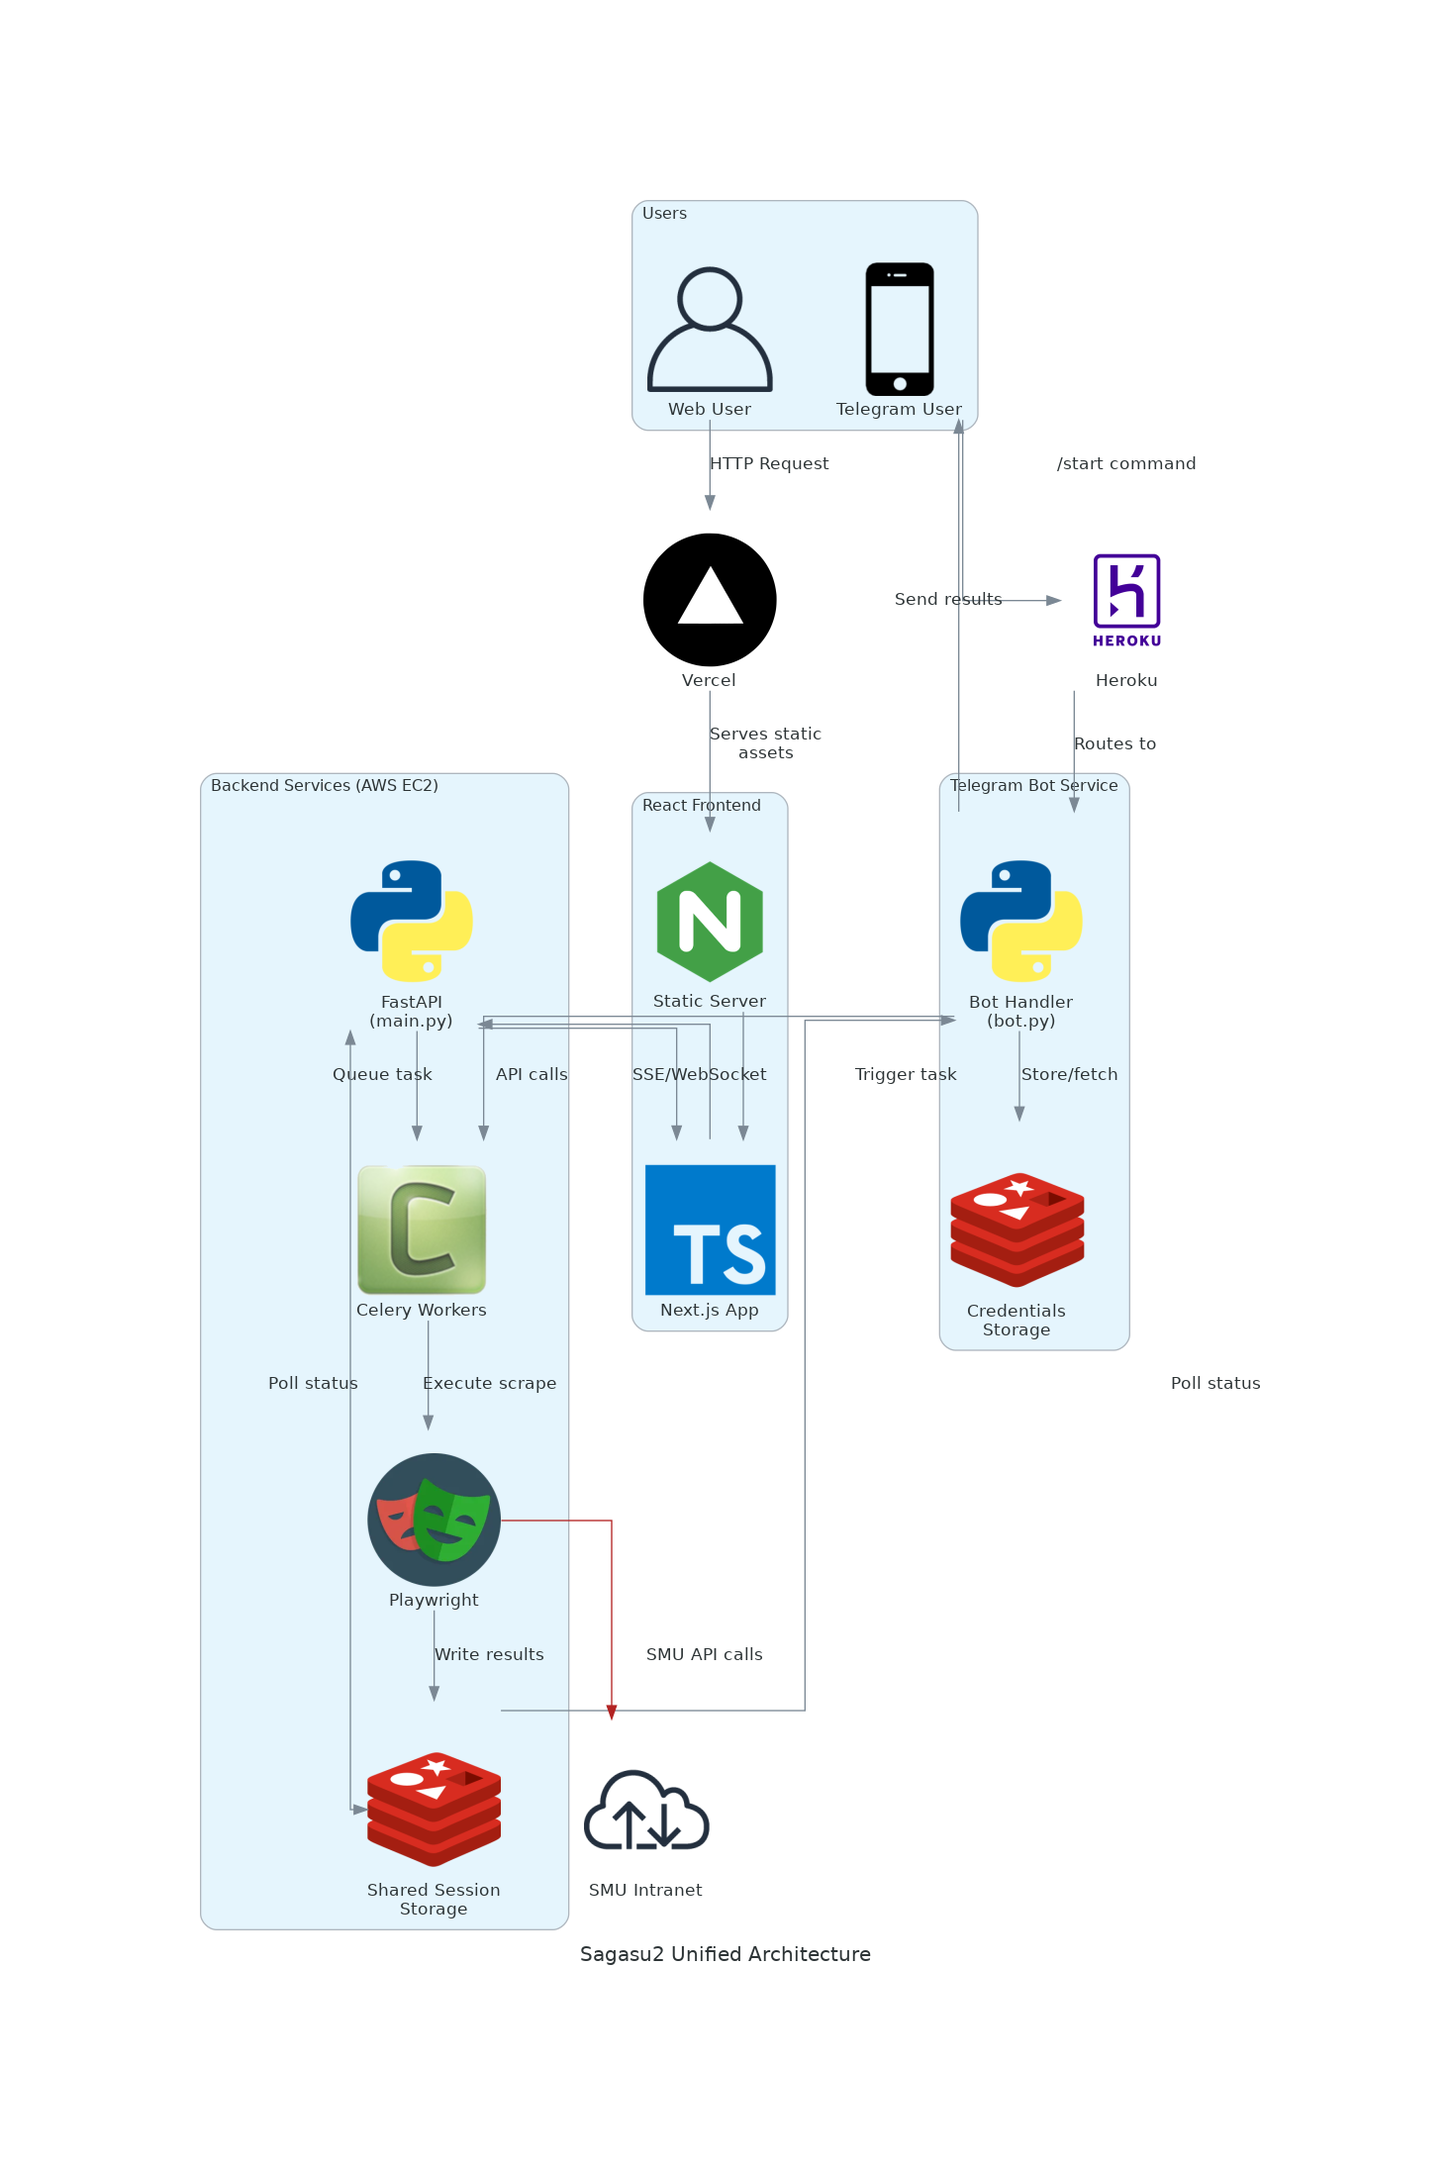
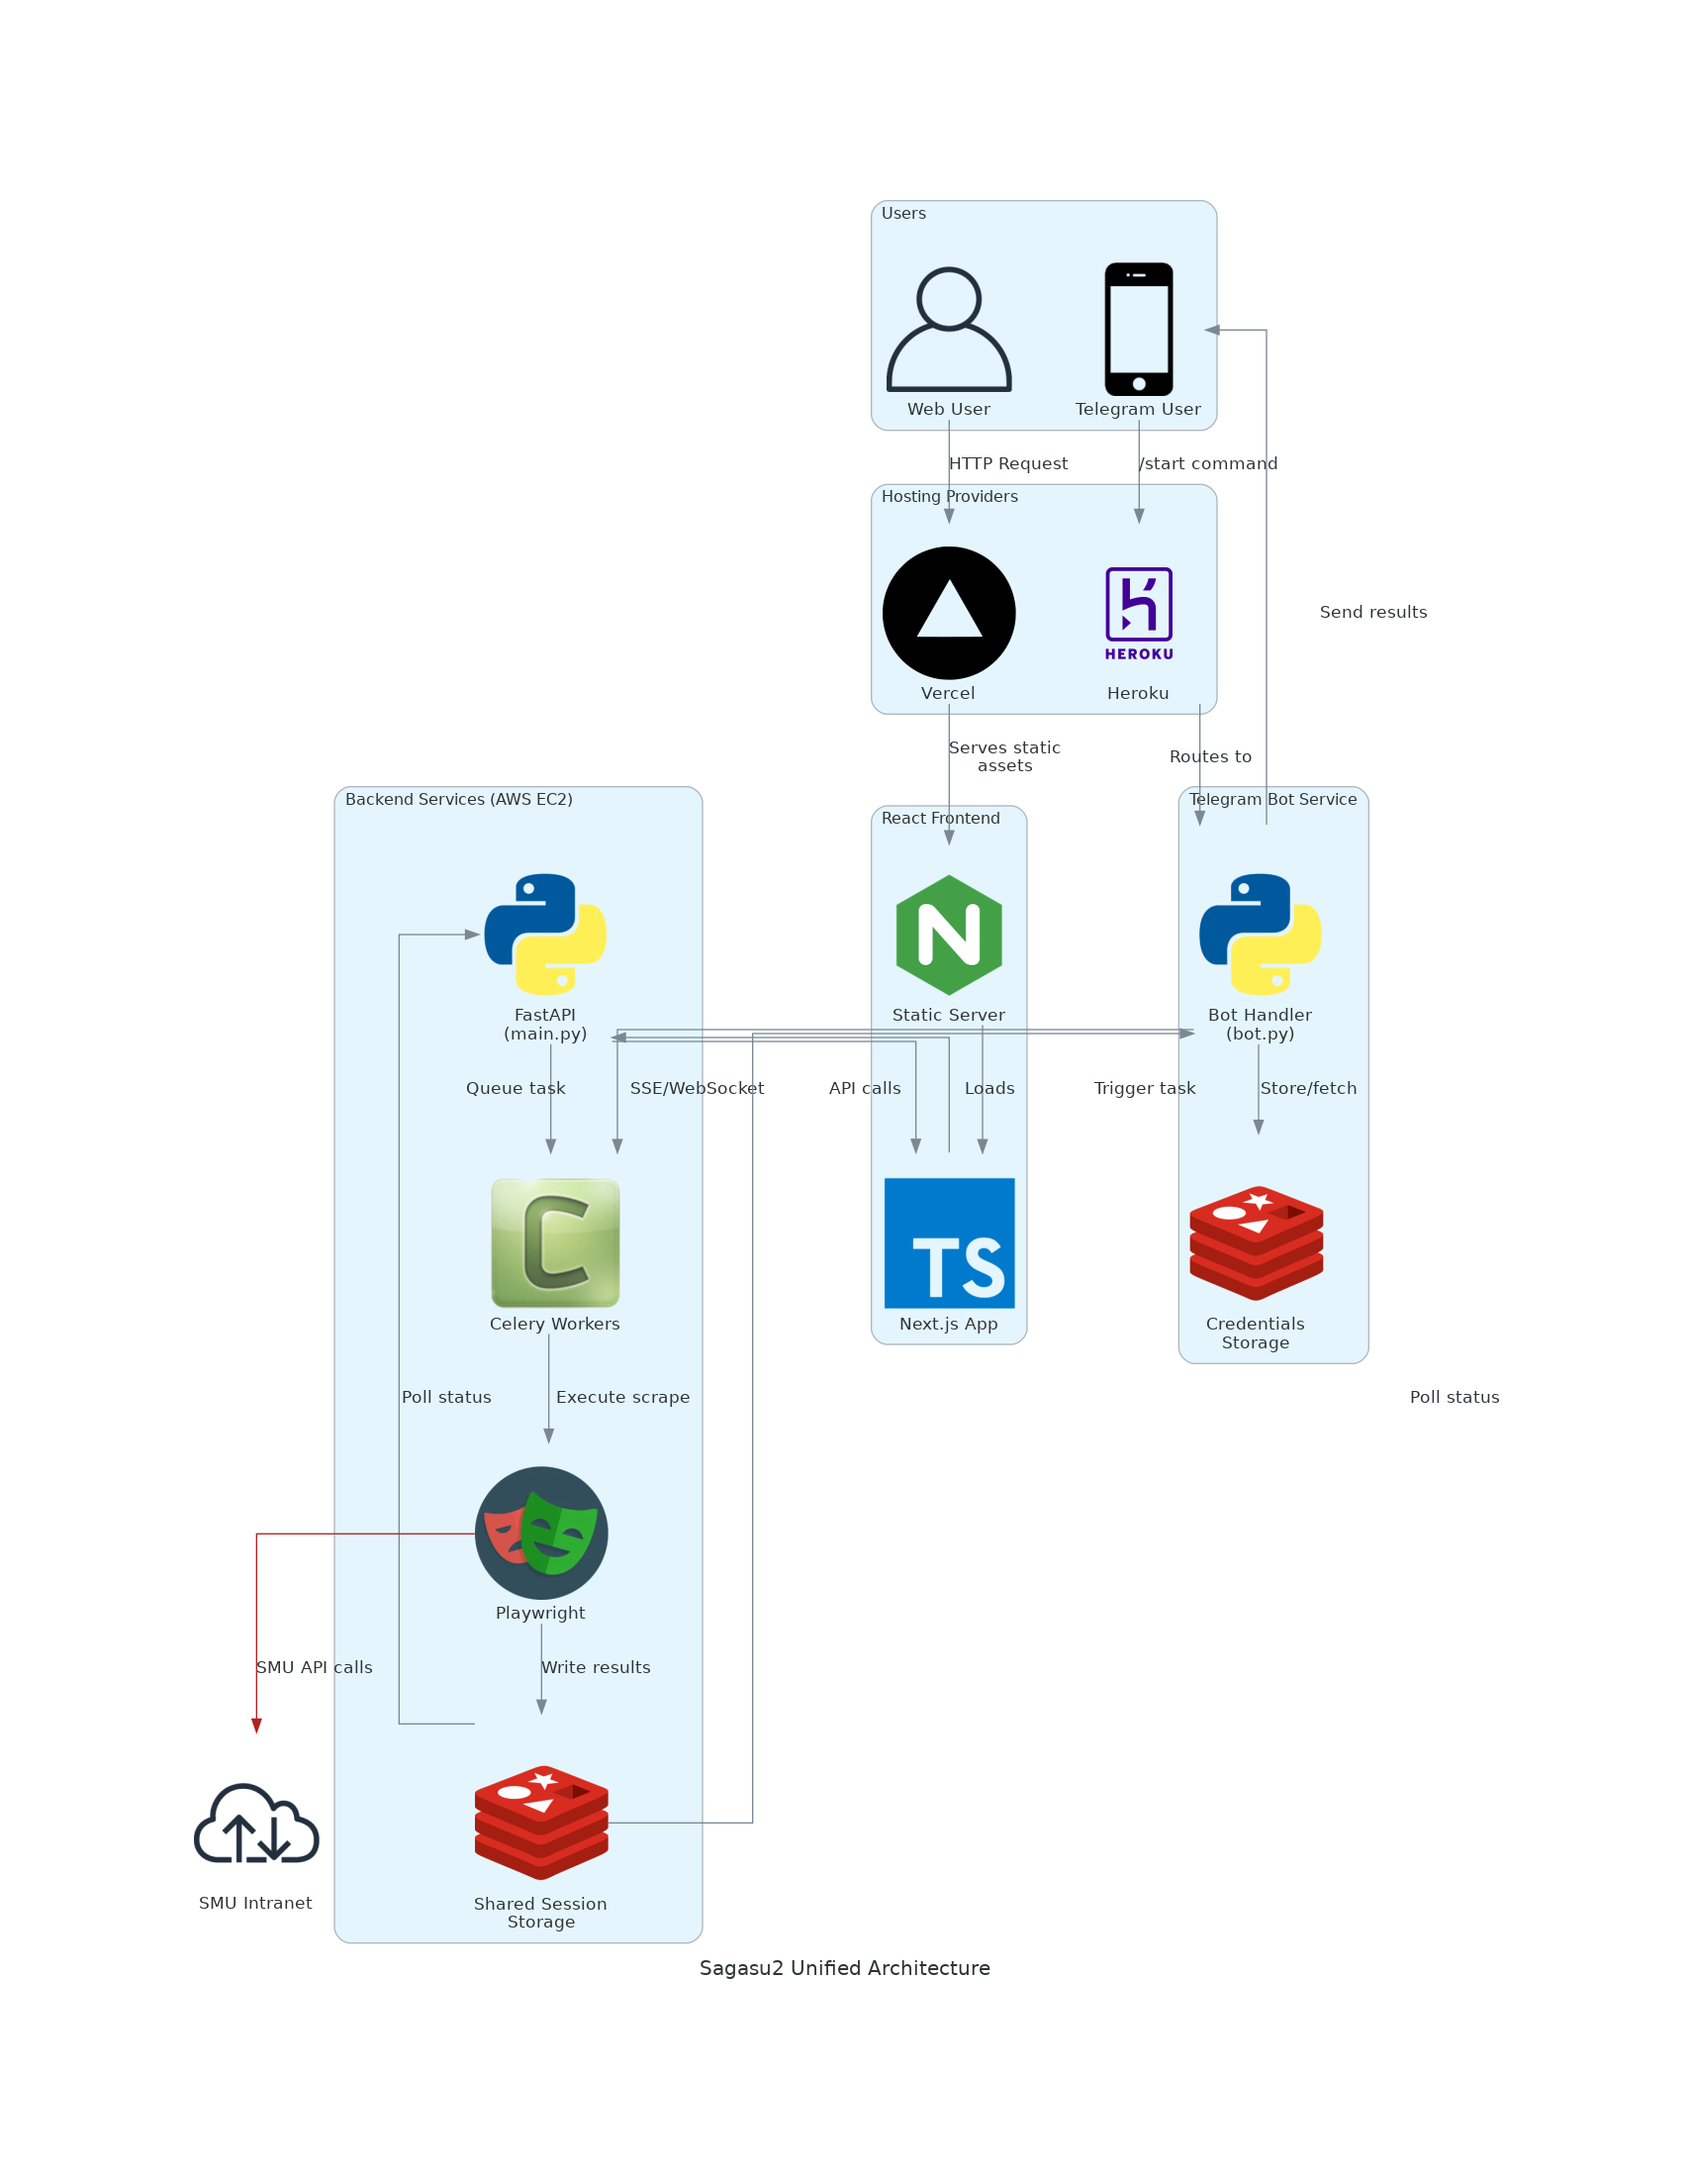
feat(app): ok?

Changed region(s): [[0.1227, 0.0934, 0.8282, 0.9025], [0.5215, 0.9025, 0.5828, 0.9336], [0.4294, 0.9025, 0.4601, 0.9336]]

diff --git a/src/architecture.py b/src/architecture.py
@@ -7,48 +7,35 @@ from diagrams.onprem.queue import Celery
 from diagrams.generic.device import Mobile
 from diagrams.custom import Custom
 
-# Local logo paths (update these paths to your actual logo files)
 VERCEL_LOGO = "./vercel-logo.png"
 HEROKU_LOGO = "./heroku-logo.png"
-PLAYWRIGHT_LOGO = "./playwright-logo.png"  # Place your Playwright PNG here
+PLAYWRIGHT_LOGO = "./playwright-logo.png"
 
 def unified_architecture():
-    with Diagram("Sagasu2 Unified Architecture", show=False, filename="unified_arch", direction="TB"):
+    with Diagram("Sagasu2 Architecture", show=False, filename="unified_arch", direction="TB"):
         internet = Internet("SMU Intranet")
-        
-        # Users
         with Cluster("Users"):
             mobile_user = Mobile("Telegram User")
             web_user = User("Web User")
-
-        # Hosting Providers
-        vercel = Custom("Vercel", VERCEL_LOGO)
-        heroku = Custom("Heroku", HEROKU_LOGO)
-            
-        # Services
+        with Cluster("Hosting Providers"):
+            vercel = Custom("Vercel", VERCEL_LOGO)
+            heroku = Custom("Heroku", HEROKU_LOGO)
         with Cluster("Telegram Bot Service"):
             bot = Python("Bot Handler\n(bot.py)")
             telegram_redis = Redis("Credentials\nStorage")
-            
         with Cluster("React Frontend"):
             react = TypeScript("Next.js App")
             nginx = Nginx("Static Server")
-            
         with Cluster("Backend Services (AWS EC2)"):
             api = Python("FastAPI\n(main.py)")
             shared_redis = Redis("Shared Session\nStorage")
             celery = Celery("Celery Workers")
             playwright = Custom("Playwright", PLAYWRIGHT_LOGO)
-
-        # User to Hosting Provider
         mobile_user >> Edge(label="/start command") >> heroku
         web_user >> Edge(label="HTTP Request") >> vercel
-
-        # Hosting Provider to Service
         heroku >> Edge(label="Routes to") >> bot
-        vercel >> Edge(label="Serves static\nassets") >> nginx >> react
-
-        # Telegram bot logic
+        vercel >> Edge(label="Serves static\nassets") >> nginx
+        nginx >> Edge(label="Loads") >> react
         bot >> Edge(label="Store/fetch") >> telegram_redis
         bot >> Edge(label="Trigger task") >> celery
         celery >> Edge(label="Execute scrape") >> playwright
@@ -56,11 +43,9 @@ def unified_architecture():
         playwright >> Edge(label="Write results") >> shared_redis
         shared_redis >> Edge(label="Poll status") >> bot
         bot >> Edge(label="Send results") >> mobile_user
-
-        # React/Backend logic
         react >> Edge(label="API calls") >> api
         api >> Edge(label="Queue task") >> celery
-        shared_redis << Edge(label="Poll status") >> api
+        shared_redis >> Edge(label="Poll status") >> api
         api >> Edge(label="SSE/WebSocket") >> react
 
 if __name__ == "__main__":

diff --git a/README.md b/README.md
@@ -28,13 +28,9 @@
 
 ## Architecture
 
-### [Telegram Bot](./telegram_bot/)
+Below diagram shows the [Telegram Bot](./telegram_bot/), [Web App](./web/frontend/) and [FastAPI Server](./web/backend/).
 
-...
-
-### [Web App](./web/)
-
-...
+![](./asset/reference/architecture.png)
 
 ## Usage
 
